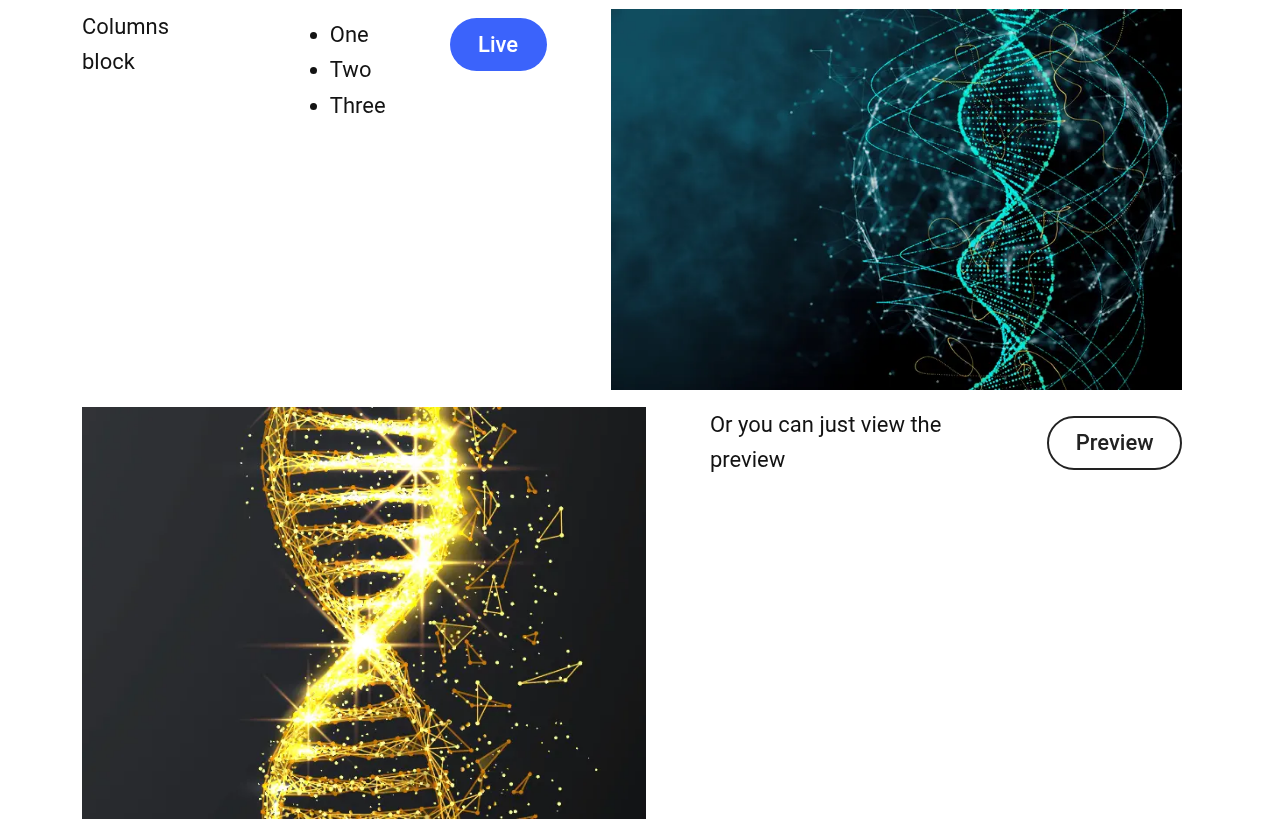
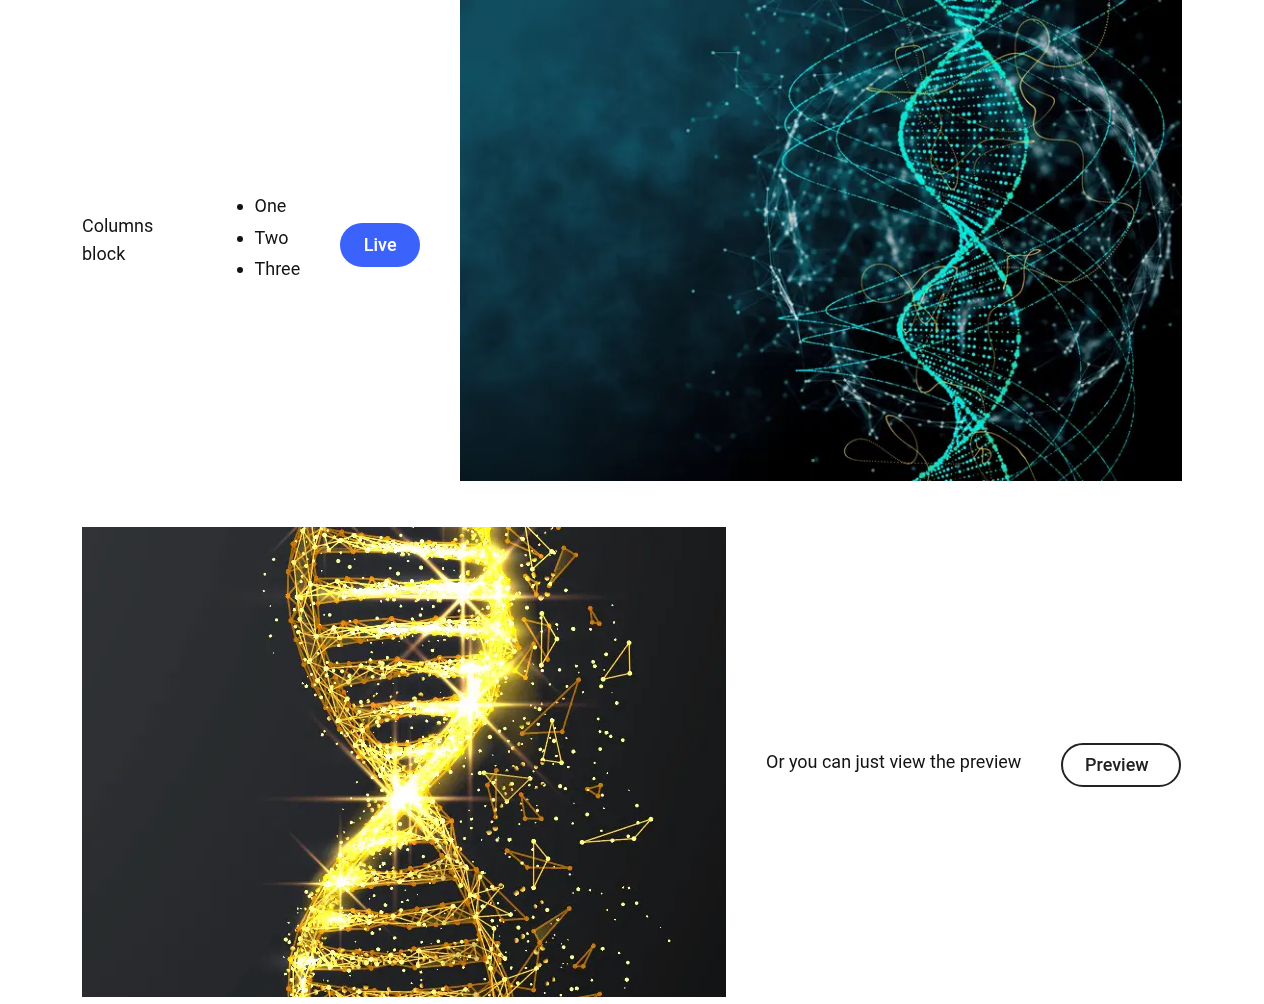
feat: Style the block Columns based on structured feedback. for #1400

diff --git a/blocks/columns/columns.css b/blocks/columns/columns.css
@@ -1,3 +1,4 @@
+
 .columns img {
   width: 100%;
 }
@@ -41,12 +42,6 @@
   }
 }
 
-.columns.columns3 {
-  /* Merged declarations from both base and generated CSS */
-
-  /* No properties to merge from base; only generated CSS applies here */
-}
-
 .columns.columns3 > div {
   display: flex;
   flex-direction: column;
@@ -58,7 +53,6 @@
 }
 
 @media (width >= 900px) {
-  /* Each row is a flex row: tighter horizontal gap, visually balanced cell sizes */
   .columns.columns3 > div > div {
     display: flex;
     flex-direction: row;
@@ -68,7 +62,6 @@
     margin-bottom: 0;
   }
 
-  /* Top row left: wider min/max for more balance */
   .columns.columns3 > div > div:first-child > div:first-child {
     display: flex;
     flex-direction: column;
@@ -81,7 +74,6 @@
     gap: 0.25em;
   }
 
-  /* Top row right: slightly less wide, center image vertically with text */
   .columns.columns3 > div > div:first-child > div:last-child {
     flex: 1.4 1 0;
     display: flex;
@@ -91,7 +83,6 @@
     max-width: none;
   }
 
-  /* Bottom row left: gold image, fill space */
   .columns.columns3 > div > div:last-child > div:first-child {
     flex: 1.4 1 0;
     display: flex;
@@ -101,7 +92,6 @@
     max-width: none;
   }
 
-  /* Bottom row right: preview text/button, left align, tightly grouped and not too wide */
   .columns.columns3 > div > div:last-child > div:last-child {
     display: flex;
     flex-direction: column;
@@ -162,4 +152,150 @@
     max-width: 100%;
     width: 100%;
   }
+}
+
+/* --- GENERATED CSS START --- */
+
+.columns.columns3 {
+  background: #fff;
+  margin: 0 auto;
+  padding: 0;
+}
+
+/* Main block: vertical stack of two rows */
+.columns.columns3 > div {
+  display: flex;
+  flex-direction: column;
+  gap: 40px;
+  max-width: 1100px;
+  margin: 0 auto;
+  width: 100%;
+}
+
+/* Each row: flex row, vertical centering for both cells */
+.columns.columns3 > div > div {
+  display: flex;
+  flex-direction: row;
+  align-items: center;    /* Vertically center both cells */
+  gap: 40px;
+  width: 100%;
+  min-width: 0;
+  margin: 0;
+  padding: 0;
+}
+
+/* Left content cells: limit width, allow to grow, ensure not too narrow */
+.columns.columns3 > div > div > div:first-child {
+  flex: 1 1 340px;
+  min-width: 220px;
+  max-width: 370px;
+  display: flex;
+  flex-direction: column;
+  align-items: flex-start;
+  gap: 16px;
+}
+
+/* Right content cells: allow to grow */
+.columns.columns3 > div > div > div:last-child {
+  flex: 2 1 0;
+  min-width: 320px;
+  display: flex;
+  flex-direction: column;
+  align-items: flex-end;
+  justify-content: center;
+  gap: 12px;
+}
+
+/* Images: fill available space, always match height of row */
+.columns.columns3 > div > div > div:last-child picture,
+.columns.columns3 > div > div > div:last-child img,
+.columns.columns3 > div > div > div:first-child picture,
+.columns.columns3 > div > div > div:first-child img {
+  width: 100%;
+  height: 370px;
+  min-width: 320px;
+  max-width: 610px;
+  object-fit: cover;
+  display: block;
+  border-radius: 0;
+  margin: 0;
+}
+
+/* Text, list, and button styles */
+.columns.columns3 p,
+.columns.columns3 ul,
+.columns.columns3 li {
+  font-size: 18px;
+  line-height: 1.6;
+  color: var(--text-color);
+  margin: 0 0 0.35em;
+}
+
+.columns.columns3 ul {
+  margin: 0 0 8px 18px;
+  padding-left: 0;
+}
+
+.columns.columns3 li {
+  margin-bottom: 3px;
+}
+
+/* Button container: left aligned, tight above spacing */
+.columns.columns3 .button-container {
+  margin-top: 12px;
+  text-align: left;
+}
+
+.columns.columns3 .button.secondary {
+  margin-top: 8px;
+  background: #fff;
+  color: #222;
+  border: 2px solid #222;
+  text-align: left;
+  min-width: 120px;
+  display: inline-block;
+}
+
+/* Preview text: no wrapping */
+.columns.columns3 > div > div:last-child > div:last-child > p {
+  margin-bottom: 0.7em;
+  width: auto;
+  white-space: nowrap;
+}
+
+/* Responsive: stack rows and stack columns on mobile */
+@media (width <= 900px) {
+  .columns.columns3 > div {
+    flex-direction: column;
+    gap: 32px;
+  }
+
+  .columns.columns3 > div > div {
+    flex-direction: column;
+    gap: 24px;
+    align-items: stretch;
+  }
+
+  .columns.columns3 > div > div > div {
+    max-width: 100%;
+    width: 100%;
+    min-width: 0;
+  }
+
+  .columns.columns3 > div > div > div:last-child picture,
+  .columns.columns3 > div > div > div:last-child img,
+  .columns.columns3 > div > div > div:first-child picture,
+  .columns.columns3 > div > div > div:first-child img {
+    height: auto;
+    min-width: 0;
+    max-width: 100%;
+    max-height: none;
+  }
+}
+
+/* --- MERGED .columns.columns3 SELECTOR --- */
+.columns.columns3 {
+  background: #fff;
+  margin: 0 auto;
+  padding: 0;
 }
